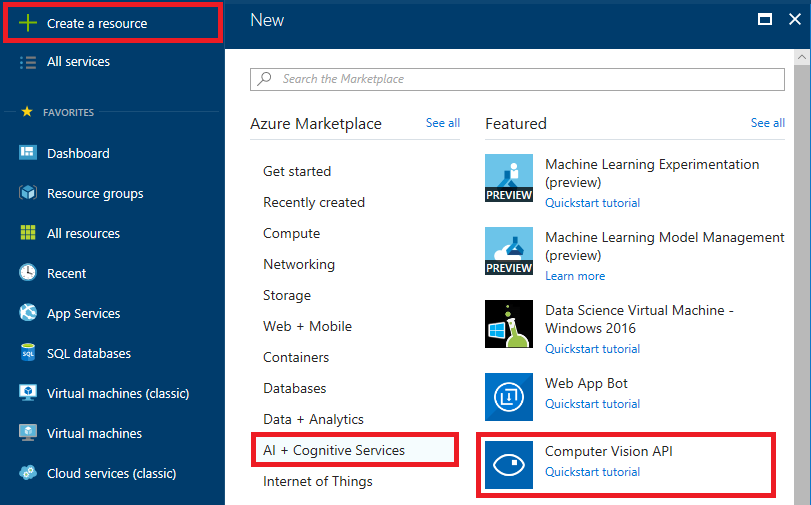
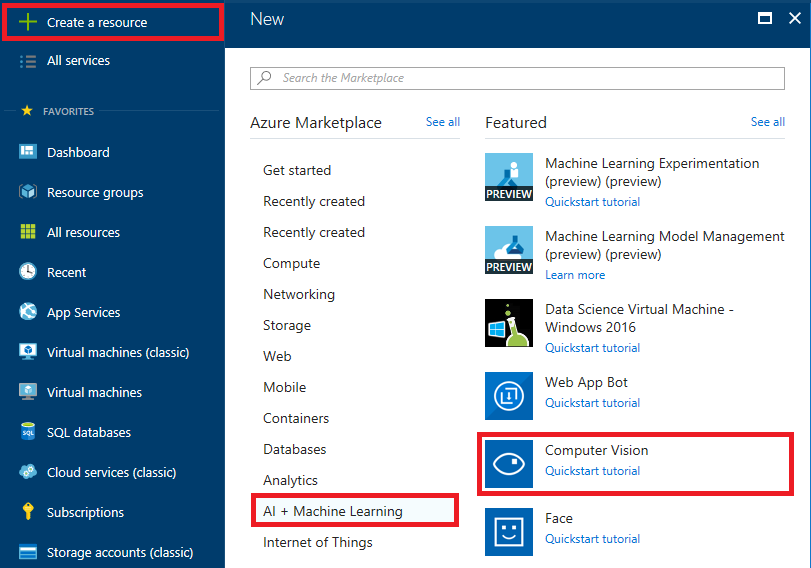
Updated Azure Functions labs

diff --git a/Labs/Azure Services/Azure Functions/Azure Functions (C#).md b/Labs/Azure Services/Azure Functions/Azure Functions (C#).md
@@ -284,7 +284,7 @@ An Azure Function written in C# has been created, complete with a JSON project f
 
 The Azure Function you created in [Exercise 2](#Exercise2) loads a subscription key for the Microsoft Cognitive Services Computer Vision API from application settings. This key is required in order for your code to call the Computer Vision API, and is transmitted in an HTTP header in each call. It also loads the base URL for the Computer Vision API (which varies by data center) from application settings. In this exercise, you will subscribe to the Computer Vision API, and then add an access key and a base URL to application settings.
 
-1. In the Azure Portal, click **+ Create a resource**, followed by **AI + Cognitive Services** and **Computer Vision API**.
+1. In the Azure Portal, click **+ Create a resource**, followed by **AI + Machine Learning** and **Computer Vision**.
 
     ![Creating a new Computer Vision API subscription](Images/new-vision-api.png)
 

diff --git a/Labs/Azure Services/Azure Functions/Azure Functions (JavaScript).md b/Labs/Azure Services/Azure Functions/Azure Functions (JavaScript).md
@@ -269,7 +269,7 @@ An Azure Function written in JavaScript has been created and configured and the 
 
 The Azure Function you created in [Exercise 2](#Exercise2) loads a subscription key for the Microsoft Cognitive Services Computer Vision API from application settings. This key is required in order for your code to call the Computer Vision API, and is transmitted in an HTTP header in each call. It also loads the base URL for the Computer Vision API (which varies by data center) from application settings. In this exercise, you will subscribe to the Computer Vision API, and then add an access key and a base URL to application settings.
 
-1. In the Azure Portal, click **+ Create a resource**, followed by **AI + Cognitive Services** and **Computer Vision API**.
+1. In the Azure Portal, click **+ Create a resource**, followed by **AI + Machine Learning** and **Computer Vision**.
 
     ![Creating a new Computer Vision API subscription](Images/new-vision-api.png)
 
